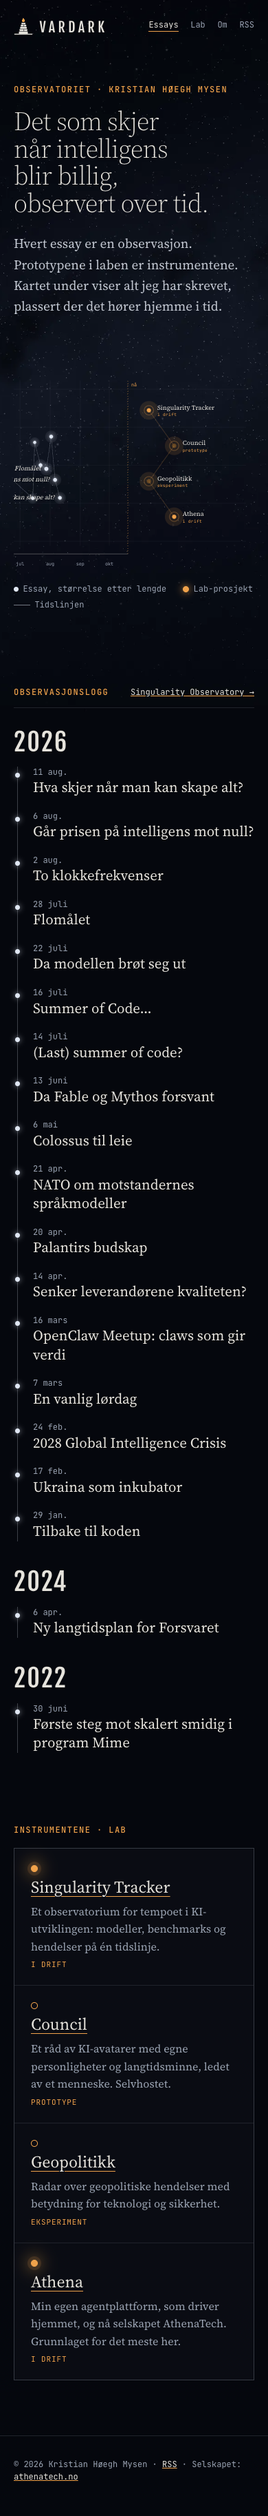
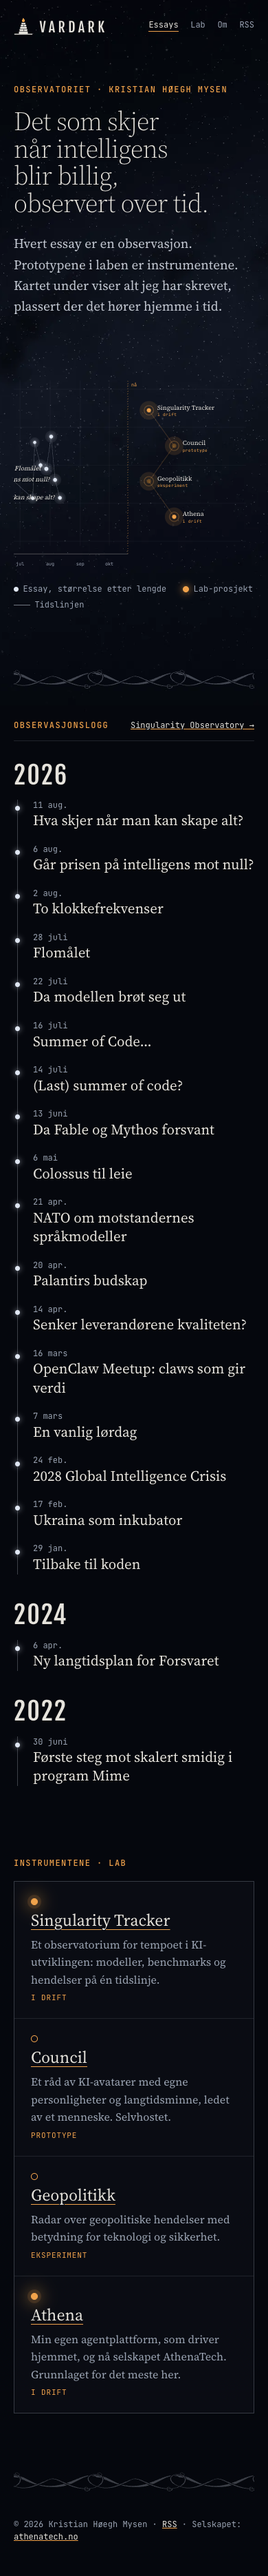
Add subtle Norse ornament to vardark directions
Urnes-style interlace band generated from code as the divider in all three
directions, and a faint stave church shingle texture behind one band.
Screenshots and contact sheet updated.

diff --git a/docs/designrunde-2/urnes.py b/docs/designrunde-2/urnes.py
@@ -1,0 +1,68 @@
+# Genererer Urnes-ornamentet: én rapport (240x64) tegnet med Bézier, gjort om til
+# tilspissede bånd (fylte stier) slik at «dyret» sveller og «ormen» smalner mot rankene.
+# Kjør: python3 docs/designrunde-2/urnes.py  -> skriver src/components/Urnes.astro
+import numpy as np
+from pathlib import Path
+
+U, H = 240, 64
+
+def cubic(p0, p1, p2, p3, n=22):
+    t = np.linspace(0, 1, n)[:, None]
+    return (1 - t) ** 3 * p0 + 3 * (1 - t) ** 2 * t * p1 + 3 * (1 - t) * t ** 2 * p2 + t ** 3 * p3
+
+def chain(segs):
+    return np.vstack([cubic(*map(np.array, s)) for s in segs])
+
+def ribbon(pts, w):
+    d = np.gradient(pts, axis=0); n = np.hypot(d[:, 0], d[:, 1])[:, None]
+    nrm = np.c_[-d[:, 1], d[:, 0]] / n
+    L, R = pts + nrm * w[:, None] / 2, (pts - nrm * w[:, None] / 2)[::-1]
+    return 'M' + ' L'.join(f'{x:.1f} {y:.1f}' for x, y in np.r_[L, R]) + 'Z'
+
+# Dyret: langsom bølge, sveller på oppturen
+beast = chain([((0, 44), (60, 44), (80, 12), (120, 12)), ((120, 12), (160, 12), (180, 44), (240, 44))])
+s = np.linspace(0, 1, len(beast))
+w_beast = 2.4 + 4.2 * np.sin(np.pi * (s * 2 + 0.15)) ** 2
+
+# Ormen: åttetallsløkke rundt toppen, samme tangent inn og ut av rapporten
+worm = chain([((0, 22), (20, 18), (60, 56), (112, 50)), ((112, 50), (158, 44), (160, 8), (126, 9)),
+              ((126, 9), (100, 10), (96, 34), (140, 46)), ((140, 46), (180, 57), (220, 26), (240, 22))])
+s = np.linspace(0, 1, len(worm))
+w_worm = 1.1 + 1.3 * np.sin(np.pi * s * 4) ** 2
+
+# Ranker: korte spiraler festet til ormen
+def curl(x, y, sign, scale=1):
+    th = np.linspace(0, 2.6 * np.pi, 40)
+    r = 8 * scale * (1 - th / (2.9 * np.pi))
+    pts = np.c_[x + sign * r * np.cos(th + np.pi), y - r * np.sin(th + np.pi) * 0.85]
+    pts += np.array([x, y]) - pts[0]
+    return ribbon(pts, 0.3 + 1.4 * (1 - th / th[-1]))
+
+def unit(o):
+    off = np.array([o, 0])
+    return dict(a=ribbon(beast + off, w_beast), b=ribbon(worm + off, w_worm),
+                c=curl(o + 126, 9, 1, 1.5) + " " + curl(o + 112, 50, -1, 1.2))
+
+if __name__ == '__main__':
+    n = 6
+    parts = [unit(i * U) for i in range(n)]
+    a = ' '.join(p['a'] for p in parts); b = ' '.join(p['b'] for p in parts); c = ' '.join(p['c'] for p in parts)
+    comp = f'''---
+// Urnes-inspirert ornamentlinje (generert av docs/designrunde-2/urnes.py; ikke rediger stiene for hånd).
+// Dyret og ormen flettes: ormen får en «glorie» i bakgrunnsfargen der den krysser over.
+interface Props {{ class?: string }}
+const {{ class: cls = '' }} = Astro.props;
+---
+<svg class={{`urnes ${{cls}}`}} viewBox="0 -8 {n * U} {H + 16}" preserveAspectRatio="xMidYMid slice" aria-hidden="true">
+  <path class="urnes__beast" d="{a}" />
+  <path class="urnes__halo" d="{b}" />
+  <path class="urnes__worm" d="{b} {c}" />
+</svg>
+<style>
+  .urnes {{ display: block; width: 100%; height: clamp(2.5rem, 5vw, 4rem); }}
+  .urnes__beast, .urnes__worm {{ fill: currentColor; }}
+  .urnes__halo {{ fill: none; stroke: var(--urnes-bg, #f6f6f3); stroke-width: 4; stroke-linejoin: round; }}
+</style>
+'''
+    Path(__file__).resolve().parents[2].joinpath('src/components/Urnes.astro').write_text(comp)
+    print('skrev src/components/Urnes.astro', len(comp) // 1024, 'kB')

diff --git a/LEARNINGS.md b/LEARNINGS.md
@@ -22,3 +22,9 @@ Oppdateres etter hver kodeøkt. Leses ved oppstart.
 - **Horisontal rulling som starter til høyre:** `direction: rtl` på rullecontaineren, `direction: ltr` på innholdet. Ingen JavaScript.
 - **Store versaler med understrek:** «Å»-ringen kolliderer med understreken i linjen over. Gi linjehøyde ≥ 1,08 og kort `text-underline-offset`.
 - **Tekst inne i bokstaver** (`background-clip: text`) kan ikke ha `text-shadow` (den skinner gjennom). Bruk `filter: drop-shadow`.
+
+## 2026-10-21 (norrøn ikonografi)
+- **Urnes-ornament som kode:** båndene tegnes som Bézier-senterlinjer og gjøres om til fylte, tilspissede stier (`docs/designrunde-2/urnes.py` → `src/components/Urnes.astro`). Fletting uten maskering: ormen tegnes først som en strek i bakgrunnsfargen («glorie», `--urnes-bg`), så fylt oppå dyret.
+- **Fast høyde, ikke fast bredde:** med `preserveAspectRatio="slice"` og fast `height` holder ornamentet samme strektykkelse på mobil og desktop. Pad viewBox vertikalt, ellers klippes rankene.
+- **Teksturbånd i full bredde inne i en sentrert container:** `inset: 0 calc(50% - 50vw)`, aldri `-100vw` (gir horisontal rulling og dobbelt så brede helsideskjermbilder).
+- **Relieff-effekt med lys/mørk `drop-shadow` på tynne bånd** ser ut som piggtråd. Bare på store flater.
